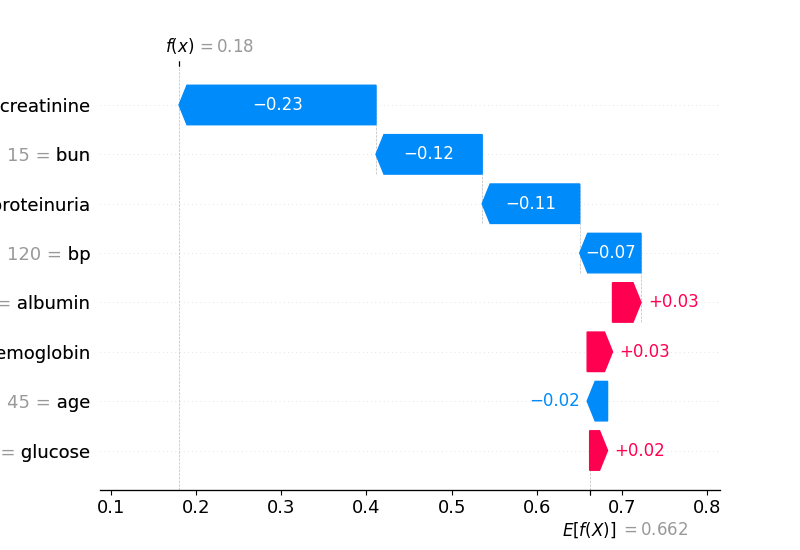
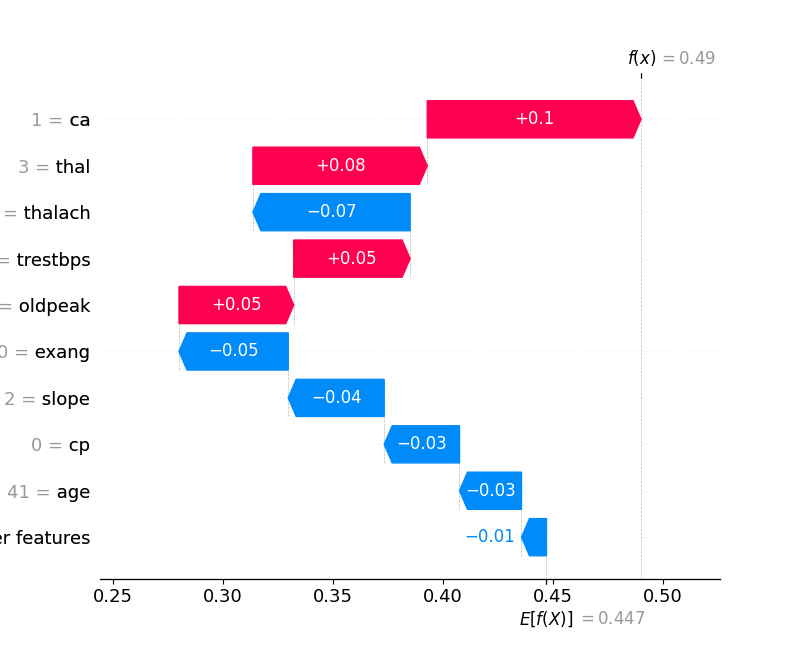
adding docker file and ci/cd

diff --git a/src/templates/result.html b/src/templates/result.html
@@ -337,9 +337,12 @@
         // Feature impact chart
         const shapFeatureNames = {{ shap_names | safe }};
         const shapFeatureValues = {{ shap_values | safe }};
-        
+
         const featureCtx = document.getElementById('featureChart').getContext('2d');
-        console.log('Canvas context:', featureCtx);
+        
+        // Scale and process values for better visualization
+        const scaledValues = shapFeatureValues.map(v => Math.abs(v) * 100);
+        const colors = shapFeatureValues.map(v => v >= 0 ? '#3b82f6' : '#ef4444');
         
         new Chart(featureCtx, {
             type: 'bar',
@@ -347,20 +350,30 @@
                 labels: shapFeatureNames,
                 datasets: [{
                     label: 'Feature Impact (%)',
-                    data: shapFeatureValues.map(v => Math.abs(v) * 100),
-                    backgroundColor: shapFeatureValues.map(v => v >= 0 ? '#4f7cff' : '#ff6b6b'),
-                    borderRadius: 8
+                    data: scaledValues,
+                    backgroundColor: colors,
+                    borderRadius: 6,
+                    borderSkipped: false
                 }]
             },
             options: {
+                responsive: true,
+                maintainAspectRatio: true,
+                indexAxis: 'x',
                 plugins: { 
-                    legend: { display: false },
+                    legend: { display: true },
                     tooltip: {
+                        backgroundColor: 'rgba(0,0,0,0.8)',
+                        padding: 12,
+                        titleFont: { size: 14 },
+                        bodyFont: { size: 13 },
                         callbacks: {
                             label: function(context) {
-                                const originalValue = shapFeatureValues[context.dataIndex];
-                                const sign = originalValue >= 0 ? '+' : '';
-                                return `Impact: ${sign}${(originalValue * 100).toFixed(2)}%`;
+                                const idx = context.dataIndex;
+                                const raw = shapFeatureValues[idx];
+                                const impact = (Math.abs(raw) * 100).toFixed(2);
+                                const direction = raw >= 0 ? '↑ Increases' : '↓ Decreases';
+                                return [`Impact: ${impact}%`, `${direction} risk`];
                             }
                         }
                     }
@@ -368,22 +381,34 @@
                 scales: {
                     y: { 
                         beginAtZero: true,
+                        max: Math.max(...scaledValues) * 1.2,
+                        ticks: {
+                            callback: function(value) {
+                                return value.toFixed(1) + '%';
+                            }
+                        },
                         title: {
                             display: true,
-                            text: 'Impact Magnitude (%)'
+                            text: 'Impact Magnitude (%)',
+                            font: { weight: 'bold' }
                         }
                     },
                     x: {
                         title: {
                             display: true,
-                            text: 'Features'
+                            text: 'Features',
+                            font: { weight: 'bold' }
                         }
                     }
                 }
             }
         });
-        
-        console.log('Chart created successfully');
+
+        // Download report function (use safe JSON from server)
+        function downloadReport() {
+            // embed server variables safely using tojson
+            const reportData = {{ {'risk': risk, 'prediction': prediction, 'explanation': explanation, 'ai_explanation': ai_explanation} | tojson | safe }};
+            reportData.date = new Date().toLocaleDateString();
             reportData.time = new Date().toLocaleTimeString();
 
             const reportContent = `MedAI Diagnostics - Medical Report\n==================================\n\nDate: ${reportData.date}\nTime: ${reportData.time}\n\nRisk Assessment: ${reportData.risk}%\nPrediction: ${reportData.prediction}\n\nClinical Explanation:\n${reportData.explanation}\n\nAI Explanation:\n${reportData.ai_explanation}\n\nGenerated by MedAI Diagnostics Platform\n==================================\n`;

diff --git a/README.md b/README.md
@@ -4,10 +4,97 @@
 Early disease diagnosis is critical in healthcare. This project aims to build an AI-driven diagnostic system using machine learning and explainable AI.
 
 ## Tech Stack
-- Python
-- Machine Learning
-- Explainable AI (XAI)
-- Generative AI (planned)
+- **Backend**: Python Flask
+- **Machine Learning**: Scikit-learn, Random Forest
+- **Explainable AI**: SHAP (SHapley Additive exPlanations)
+- **Generative AI**: OpenAI/Groq APIs (planned)
+- **Frontend**: HTML, CSS, JavaScript, Chart.js
+- **Deployment**: Render
+
+## Features
+- Disease prediction for Diabetes, Heart Disease, Pneumonia, Kidney Disease, Liver Disease
+- Explainable AI with feature impact analysis
+- Interactive web interface
+- Symptom checker
+- Model training scripts
 
 ## Project Status
-🚧 In Progress
+✅ Core functionality implemented
+✅ SHAP explanations working
+✅ Web interface deployed
+🚧 Generative AI integration pending
+
+## Local Development
+
+### Prerequisites
+- Python 3.10+
+- pip
+
+### Setup
+```bash
+# Clone the repository
+git clone <repository-url>
+cd ai-healthcare-diagnostics
+
+# Install dependencies
+pip install -r requirements.txt
+
+# Run the application
+python src/app.py
+```
+
+Visit `http://localhost:5000` in your browser.
+
+## Deployment on Render
+
+### Automatic Deployment (Recommended)
+1. Fork/clone this repository to GitHub
+2. Create a Render account at https://render.com
+3. Connect your GitHub repository to Render
+4. Render will automatically detect the `render.yaml` configuration
+5. Set environment variables in Render dashboard:
+   - `FLASK_APP=src/app.py`
+   - `FLASK_ENV=production`
+   - `FLASK_RUN_HOST=0.0.0.0`
+   - `FLASK_RUN_PORT=10000`
+6. Deploy!
+
+The application uses **Gunicorn** as the production WSGI server for better performance and stability.
+
+### Manual Deployment
+If you prefer to use the Dockerfile:
+1. Follow steps 1-3 above
+2. Choose "Docker" as the runtime
+3. Render will use the provided Dockerfile (also configured with Gunicorn)
+
+### Environment Variables
+Set these in your Render service settings:
+- `FLASK_APP`: `src/app.py`
+- `FLASK_ENV`: `production`
+- `FLASK_RUN_HOST`: `0.0.0.0`
+- `FLASK_RUN_PORT`: `10000`
+
+## API Endpoints
+- `GET /`: Home page
+- `POST /predict/diabetes`: Diabetes prediction
+- `POST /predict/heart`: Heart disease prediction
+- `POST /predict/pneumonia`: Pneumonia prediction
+- `POST /predict/kidney`: Kidney disease prediction
+- `POST /predict/liver`: Liver disease prediction
+- `POST /symptom-checker`: Symptom analysis
+
+## Model Training
+Run the training script to retrain models:
+```bash
+python train_models.py
+```
+
+## Contributing
+1. Fork the repository
+2. Create a feature branch
+3. Make your changes
+4. Test locally
+5. Submit a pull request
+
+## License
+See LICENSE file for details.